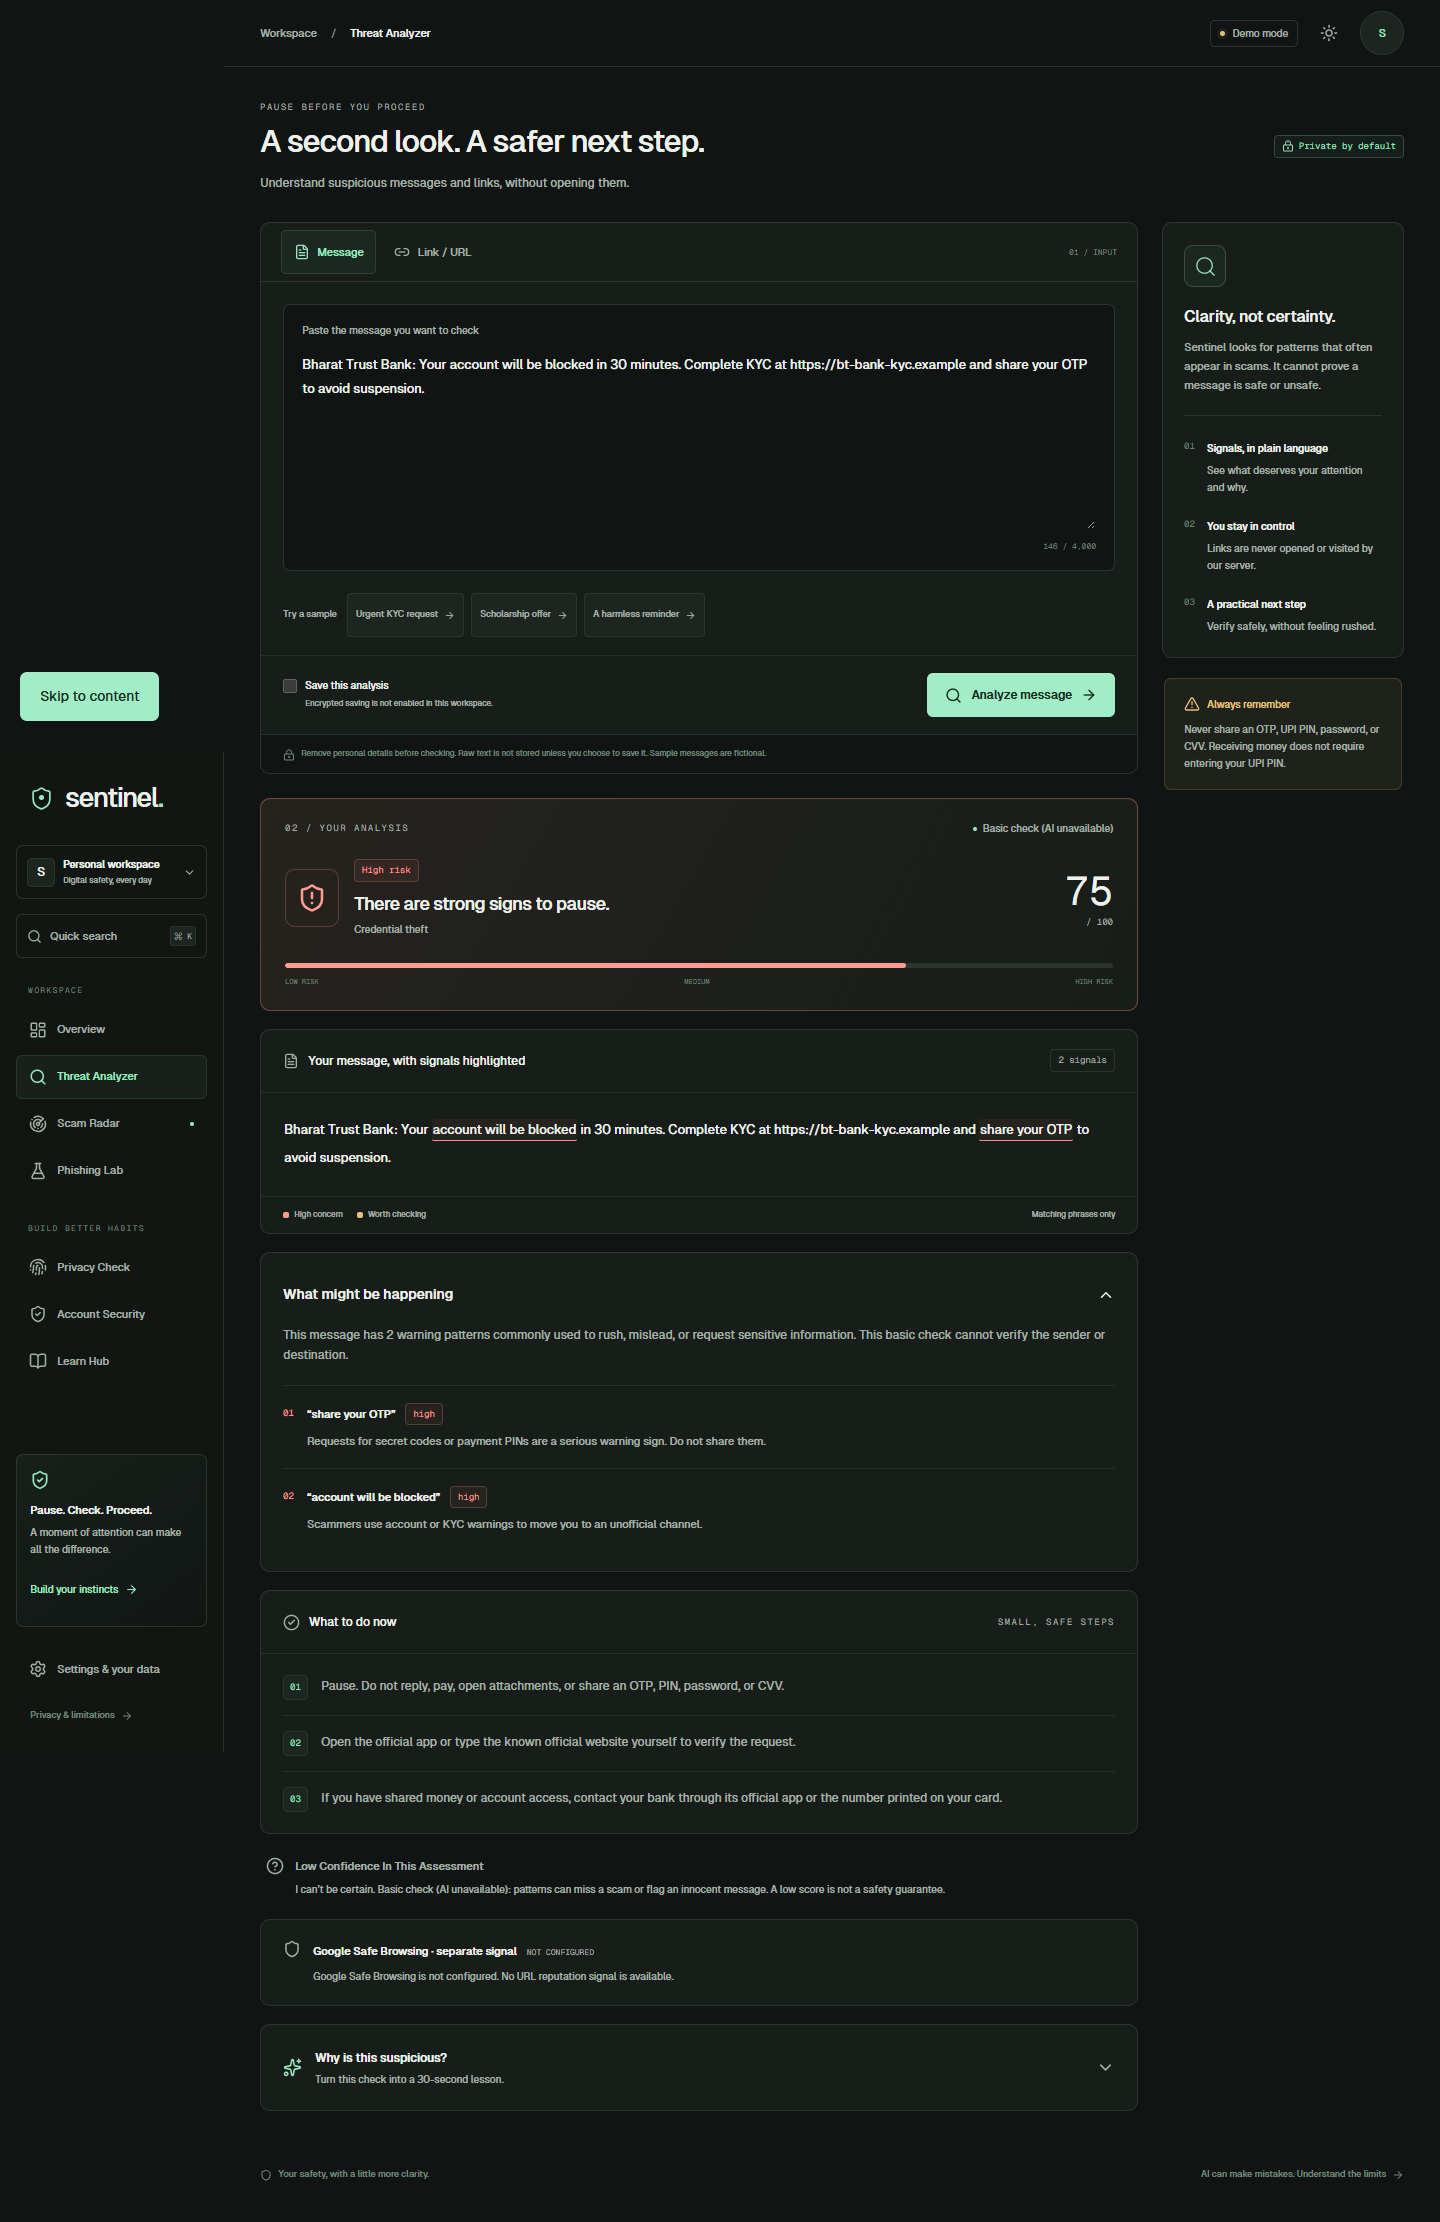
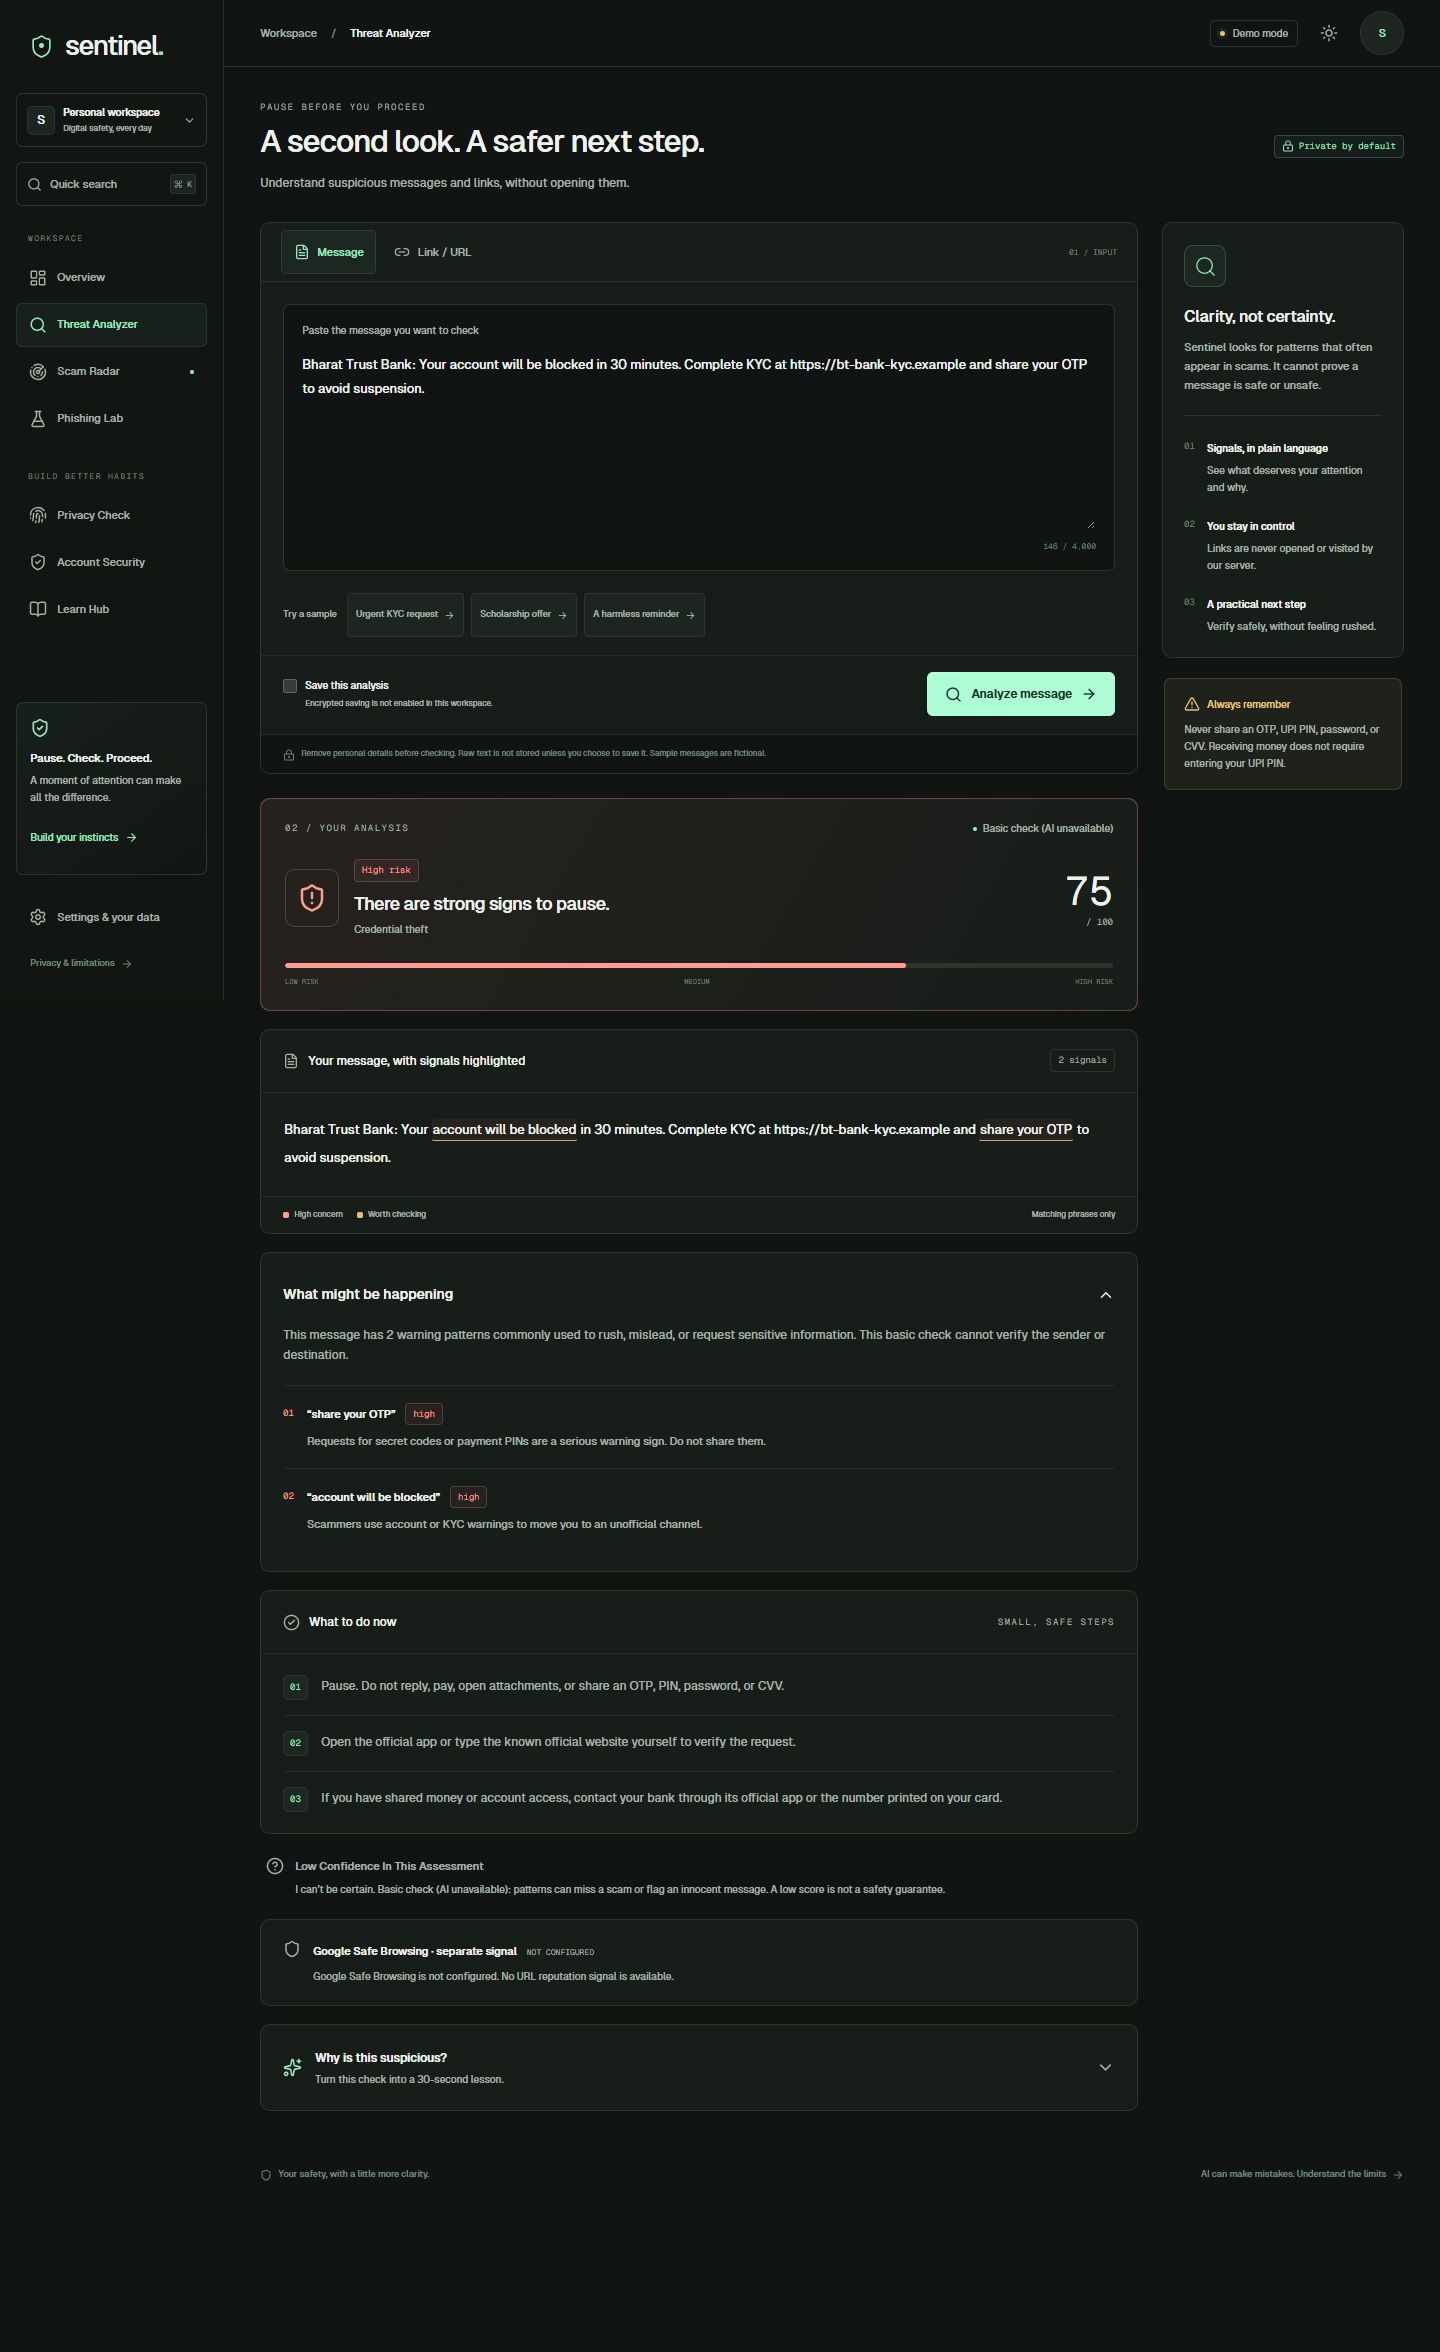
fix(verification): lint browser capture and refresh judge screenshots

diff --git a/README.md b/README.md
@@ -2,6 +2,8 @@
 
 **[Open the live demo](https://sentinel-digital-safety.100coldice.workers.dev)** · [Two-minute demo guide](DEMO_SCRIPT.md) · [Architecture](docs/ARCHITECTURE.md) · [Security and limitations](docs/THREAT_MODEL.md)
 
+[![Verify Sentinel](https://github.com/Pyrexus/Sentinals-Tool-/actions/workflows/ci.yml/badge.svg)](https://github.com/Pyrexus/Sentinals-Tool-/actions/workflows/ci.yml)
+
 > The public site runs in **Demo Mode**: no sign-in or API keys are needed to explore it. Progress is temporary, analysis uses the labelled basic checker, and training examples are fictional. Credentialed Firebase, Railway and Google AI integrations are implemented but have not been verified with live project credentials.
 
 ![Sentinel security dashboard](docs/screenshots/01-dashboard-desktop.png)
@@ -99,7 +101,7 @@ Enable **Authentication → Sign-in method → Google** in Firebase, register th
 
 ## Production setup and deployment
 
-Live external-service behavior requires your account credentials. Local verification passed 40 tests, type checking, lint, build and smoke checks, with zero vulnerabilities in the production dependency audit. The Cloudflare CLI is authenticated and deployment dry-run validation passed; neither result verifies a public deployment or live Firebase, Railway/Hyperdrive or Gemini behavior.
+The public Demo Mode deployment is live on Cloudflare Workers, and its health, Radar and Analyzer endpoints pass smoke checks. Local verification passed 40 tests, typechecking, lint, production build and browser checks, with zero production dependency vulnerabilities. Persistent accounts and configured AI require the credentials below; live Firebase, Railway/Hyperdrive and Gemini behavior has not yet been verified with project credentials.
 
 Create `.env` from `.env.example` and put the Railway public PostgreSQL URL in its `DATABASE_URL` entry. Then use this consolidated PowerShell sequence. Secret commands prompt for their values; do not substitute secrets into tracked files.
 
